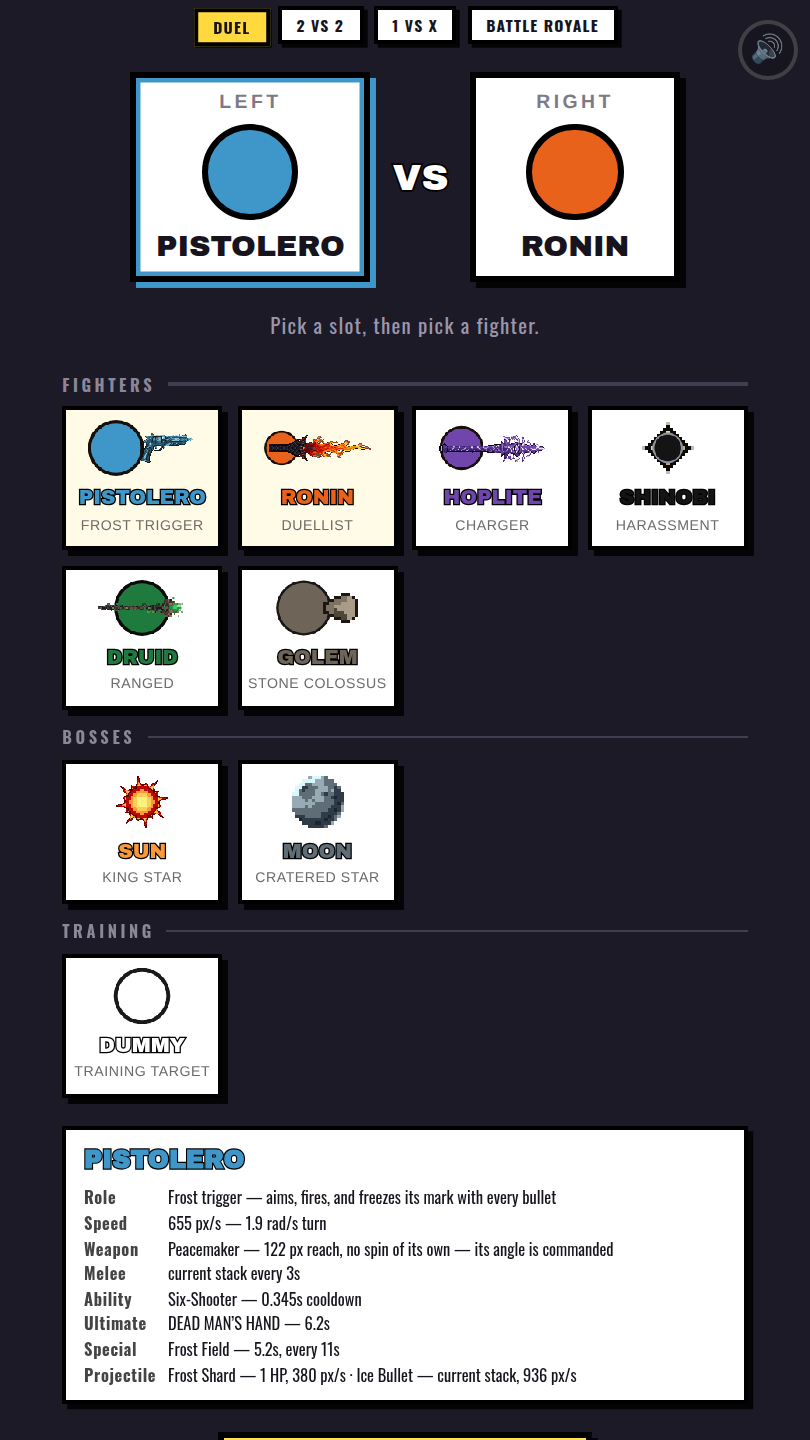
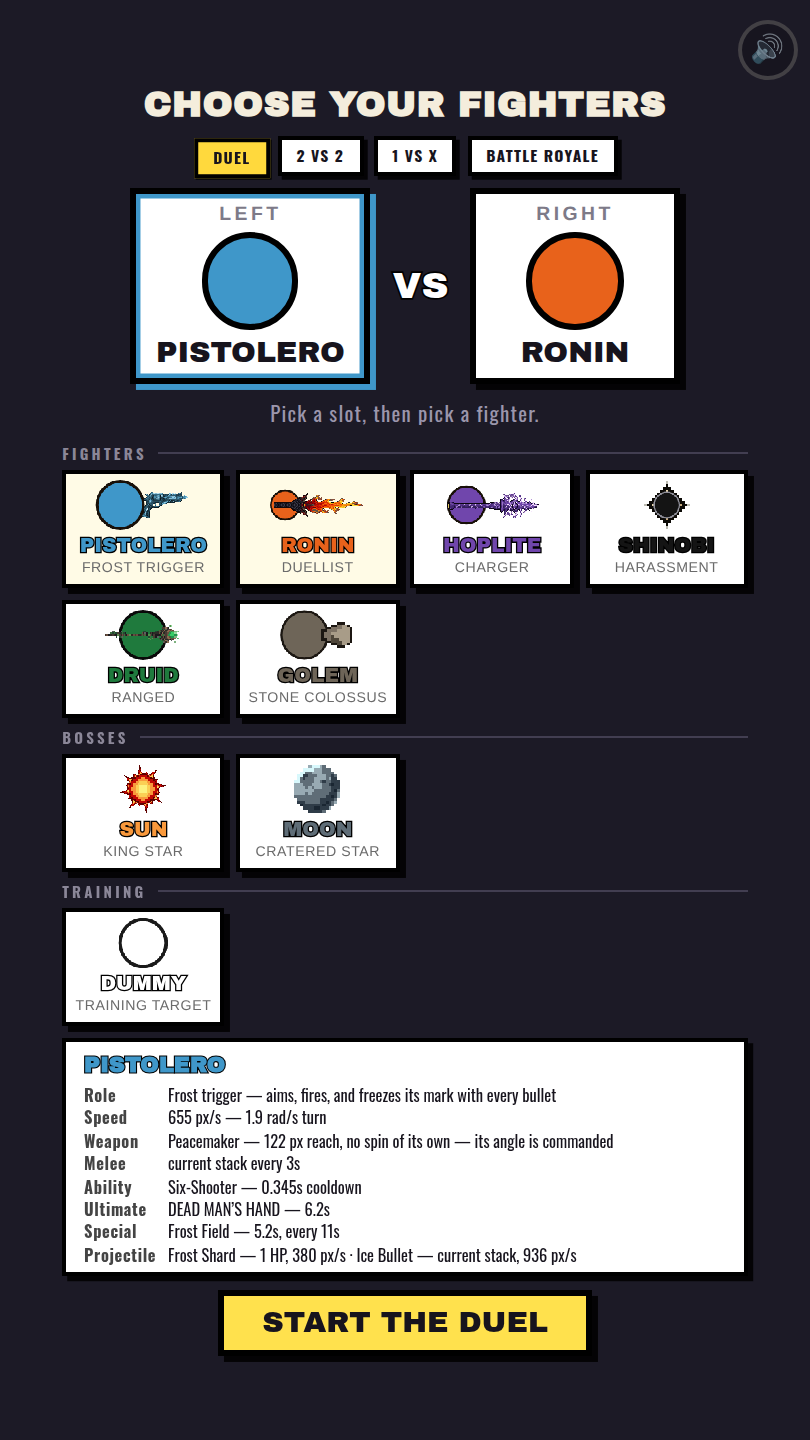
Écran de sélection : la pile tient enfin dans la scène, sur iPhone 16 Pro comme ailleurs
L'écran d'accueil débordait sa boîte **partout**, et depuis toujours. Personne
ne l'avait vu parce que le débordement est proportionnel : `#app` garde le ratio
720/1280 et toutes les tailles sont en `cqw`, donc la même pile déborde de la
même fraction sur un iPhone 16 Pro (402 × 874 px CSS → boîte 402 × 715, les
159 px restants de l'écran étant hors scène) que sur un 1280 × 800 (450 × 800).

Mesuré avant : 764 px de pile pour 715 de boîte en duel, 793 en bataille royale
à cinq. Et il n'en manquait pas qu'un bout : `justify-content: center` déborde
**des deux côtés**, donc le titre « CHOOSE YOUR FIGHTERS » passait au-dessus du
bord haut — invisible *et* hors d'atteinte du défilement — pendant que le bouton
de départ passait sous le bord bas.

Passe de compacité inconditionnelle — aucune requête de média, puisque corriger
sur un écran corrige sur tous :

* `gap` de 2 % à 0,9 % : un `gap` en pourcentage dans une colonne se résout sur
  la **hauteur**, pas sur la largeur comme les `padding`. 2 % valaient 14,3 px,
  soit 100 px de la pile en bataille royale — le premier levier, et le seul
  gratuit. Marge verticale de l'écran 4 % → 2,4 %.
* Ce qui se répète coûte : les quatre rangées de cartes du roster (marges et
  gouttières resserrées, vignette de 15 × 7,5 à 13,2 × 6,6cqw, ratio 2:1 du
  canvas gardé) et les huit lignes de la fiche détaillée (interligne 1,45 → 1,3,
  marge intérieure 1,8 → 1,1cqw, soit 20 px sans toucher au corps du texte).
[…]

diff --git a/styles/style.css b/styles/style.css
@@ -153,6 +153,24 @@ body {
 /* ---------------------------------------------------------------
    Écrans superposés
    --------------------------------------------------------------- */
+/**
+ * **L'écran n'a que la hauteur de la scène, et elle ne dépend pas de l'appareil.**
+ * `#app` garde le ratio 9:16 : sur un iPhone 16 Pro (402 × 874 px CSS), la
+ * largeur borne, donc la boîte fait 402 × 715 — les 159 px restants de l'écran
+ * sont hors scène. Toutes les tailles étant en `cqw`, **la pile se comporte
+ * pareil partout** : ce qui déborde ici déborde sur tous les écrans, dans la
+ * même proportion. D'où une passe de compacité **inconditionnelle**, sans
+ * requête de média : mesurée à 793 px de pile pour 715 px de boîte en bataille
+ * royale à cinq, elle tombe à 692 (`tools/layout-check.mjs`).
+ *
+ * `justify-content: center` déborde **des deux côtés** : le titre passait
+ * au-dessus du bord haut — invisible *et* hors d'atteinte du défilement —,
+ * pendant que le bouton de départ passait sous le bord bas.
+ *
+ * `gap` en pourcentage se résout ici sur la **hauteur** (axe du `row-gap`), pas
+ * sur la largeur comme les `padding` : 2 % valaient 14,3 px, soit 86 px pour la
+ * seule respiration entre blocs.
+ */
 .screen {
   position: absolute;
   inset: 0;
@@ -160,8 +178,8 @@ body {
   flex-direction: column;
   align-items: center;
   justify-content: center;
-  gap: 2%;
-  padding: 4% 4%;
+  gap: 0.9%;
+  padding: 2.4% 4%;
   background: var(--paper);
   text-align: center;
   /* les tailles sont en cqw pour suivre l'échelle du canvas */
@@ -175,7 +193,7 @@ body {
 
 .select-title {
   font-family: var(--font-heavy);
-  font-size: 5.4cqw;
+  font-size: 4.8cqw;
   letter-spacing: 0.02em;
   margin: 0;
   color: var(--on-paper);
@@ -273,8 +291,8 @@ body {
    champ sélectionnerait l'emplacement. */
 /* À trois emplacements et plus, les cartes du duel ne tiennent plus : on les
    resserre plutôt que de laisser la ligne déborder. */
-.slots:not([data-count="2"]) .slot { padding: 1.2cqw 1.6cqw; border-width: 0.6cqw; }
-.slots:not([data-count="2"]) .slot-orb { width: 6cqw; height: 6cqw; }
+.slots:not([data-count="2"]) .slot { padding: 0.9cqw 1.6cqw; border-width: 0.6cqw; gap: 0.6cqw; }
+.slots:not([data-count="2"]) .slot-orb { width: 5.4cqw; height: 5.4cqw; }
 .slots:not([data-count="2"]) .slot-name { font-size: 2.4cqw; }
 .slots:not([data-count="2"]) .slot-tag { font-size: 1.5cqw; }
 .slots:not([data-count="2"]) .slot-vs { font-size: 3.4cqw; }
@@ -288,12 +306,12 @@ body {
   color: #17141d; /* panneau blanc */
   border: 0.9cqw solid #000;
   border-radius: 0;
-  padding: 2cqw 2.6cqw;
+  padding: 1.4cqw 2.6cqw;
   min-width: 28cqw;
   display: flex;
   flex-direction: column;
   align-items: center;
-  gap: 1.2cqw;
+  gap: 0.9cqw;
   cursor: pointer;
   transition: transform .12s ease, box-shadow .12s ease;
   box-shadow: 0.8cqw 0.8cqw 0 rgba(0,0,0,.85);
@@ -349,7 +367,7 @@ body {
   display: flex;
   flex-direction: column;
   align-items: stretch;
-  gap: 1.4cqw;
+  gap: 0.8cqw;
   width: 92cqw;
 }
 
@@ -357,14 +375,14 @@ body {
   display: grid;
   grid-template-columns: repeat(4, 1fr);
   justify-items: stretch;
-  gap: 2cqw;
+  gap: 1.6cqw;
 }
 
 /* Un titre de section, discret : il range, il ne réclame pas l'attention. Le
    trait à droite le rattache à sa grille au lieu de flotter au-dessus. */
 .roster-tier {
-  margin: 0.6cqw 0 0;
-  font-size: 2.2cqw;
+  margin: 0.2cqw 0 0;
+  font-size: 2cqw;
   font-weight: 700;
   letter-spacing: .22em;
   color: #8b8798;
@@ -384,19 +402,21 @@ body {
   appearance: none;
   cursor: pointer;
   color: #17141d; /* panneau blanc */
-  padding: 1.4cqw 0.8cqw 1.8cqw;
+  padding: 0.9cqw 0.8cqw 1.1cqw;
   border: 0.7cqw solid #000;
   background: #fff;
   box-shadow: 0.8cqw 0.8cqw 0 rgba(0,0,0,.85);
   display: flex;
   flex-direction: column;
   align-items: center;
-  gap: 1.4cqw;
+  gap: 0.7cqw;
   transition: transform .12s ease;
 }
 .card:hover, .card:focus-visible { transform: translate(-0.35cqw, -0.35cqw); outline: none; }
 .card[aria-pressed="true"] { background: #fffbe6; }
-.card canvas { width: 15cqw; height: 7.5cqw; image-rendering: pixelated; }
+/* La vignette garde le 2:1 de son canvas (144 × 72) : la rétrécir hors ratio
+   n'aurait pas gagné de hauteur, elle aurait déformé le dessin. */
+.card canvas { width: 13.2cqw; height: 6.6cqw; image-rendering: pixelated; }
 .card-name {
   font-family: var(--font-heavy);
   font-size: 2.7cqw;
@@ -407,22 +427,25 @@ body {
 .card-role { font-size: 1.9cqw; color: #6b6b6b; letter-spacing: .04em; }
 
 /* --- fiche détaillée --- */
+/* Huit lignes de fiche : l'interligne y pèse huit fois, la marge intérieure
+   deux. 1,45 → 1,3 et 1,8 → 1,1cqw rendent 20 px de hauteur sans toucher au
+   corps du texte, qui est ce qui se lit. */
 .element-sheet {
   width: 92cqw;
   border: 0.7cqw solid #000;
   background: #fff;
-  padding: 1.8cqw 2.4cqw;
+  padding: 1.1cqw 2.4cqw;
   text-align: left;
   font-size: 2.2cqw;
-  line-height: 1.45;
+  line-height: 1.3;
   /* panneau blanc : le texte y reste sombre, quel que soit le fond de page */
   color: #17141d;
   box-shadow: 0.7cqw 0.7cqw 0 rgba(0,0,0,.85);
 }
 .element-sheet h3 {
-  margin: 0 0 1cqw;
+  margin: 0 0 0.6cqw;
   font-family: var(--font-heavy);
-  font-size: 3.4cqw;
+  font-size: 3cqw;
   color: var(--accent);
   -webkit-text-stroke: 0.3cqw #000;
   paint-order: stroke fill;
@@ -437,7 +460,7 @@ body {
   color: #17141d; /* boutons clairs */
   font-family: var(--font-heavy);
   font-size: 4cqw;
-  padding: 2cqw 5cqw;
+  padding: 1.5cqw 5cqw;
   border: 0.9cqw solid #000;
   background: #ffe14d;
   cursor: pointer;

diff --git a/docs/PIEGES.md b/docs/PIEGES.md
@@ -23,16 +23,16 @@ relevé, puis les pièges eux-mêmes.
 | &nbsp;&nbsp;· Déterminisme et ordre d'exécution | 469 |
 | &nbsp;&nbsp;· Éditer les données | 508 |
 | &nbsp;&nbsp;· Interface et rendu | 637 |
-| &nbsp;&nbsp;· Le son | 802 |
-| &nbsp;&nbsp;· Refactoriser | 1315 |
-| **Le détail des sections condensées de `CLAUDE.md`** | 1356 |
-| &nbsp;&nbsp;· L'écart du roster, et ce que la matrice cache | 1358 |
-| &nbsp;&nbsp;· Formats — ce qui change à l'écran au-delà de deux | 1401 |
-| &nbsp;&nbsp;· Invariant 12 — corollaire pour les modules de pouvoirs | 1444 |
-| &nbsp;&nbsp;· Invariant 13 — comment le moteur a cessé de compter jusqu'à deux | 1463 |
-| &nbsp;&nbsp;· Invariant 3 — la preuve que l'arrivée d'un combattant n'a rien déplacé | 1507 |
-| &nbsp;&nbsp;· Invariant 9 — les deux régressions qui l'ont écrit | 1524 |
-| &nbsp;&nbsp;· Formats — la table, et pourquoi elle a été écrite après coup | 1540 |
+| &nbsp;&nbsp;· Le son | 840 |
+| &nbsp;&nbsp;· Refactoriser | 1353 |
+| **Le détail des sections condensées de `CLAUDE.md`** | 1394 |
+| &nbsp;&nbsp;· L'écart du roster, et ce que la matrice cache | 1396 |
+| &nbsp;&nbsp;· Formats — ce qui change à l'écran au-delà de deux | 1439 |
+| &nbsp;&nbsp;· Invariant 12 — corollaire pour les modules de pouvoirs | 1482 |
+| &nbsp;&nbsp;· Invariant 13 — comment le moteur a cessé de compter jusqu'à deux | 1501 |
+| &nbsp;&nbsp;· Invariant 3 — la preuve que l'arrivée d'un combattant n'a rien déplacé | 1545 |
+| &nbsp;&nbsp;· Invariant 9 — les deux régressions qui l'ont écrit | 1562 |
+| &nbsp;&nbsp;· Formats — la table, et pourquoi elle a été écrite après coup | 1578 |
 
 ---
 
@@ -798,6 +798,44 @@ dans `docs/FICHES.md`. Ce qui suit vaut pour tout le dépôt.
   un fond uni sombre** avant de le déclarer propre. Sur le damier de
   l'éditeur d'images, une trame résiduelle est invisible — elle se confond avec
   celui de l'aperçu.
+- **Un écran DOM sur une scène 9:16 n'a pas la hauteur de l'appareil, et son
+  débordement ne dépend d'aucun appareil.** L'écran de sélection débordait sa
+  boîte **partout**, depuis toujours, et personne ne l'avait vu parce que le
+  débordement est *proportionnel* : `#app` garde le ratio 720/1280, donc sur un
+  iPhone 16 Pro (402 × 874 px CSS) la largeur borne et la boîte fait **402 × 715**
+  — les 159 px restants de l'écran sont hors scène —, et sur un 1280 × 800 elle
+  fait 450 × 800. Toutes les tailles étant en `cqw`, **la même pile déborde de
+  la même fraction sur les deux**. Mesuré : 764 px de pile pour 715 px de boîte
+  en duel, 793 en bataille royale à cinq.
+
+  Trois choses à en retenir, chacune payée une fois :
+  - **`justify-content: center` déborde des deux côtés.** Le titre « CHOOSE YOUR
+    FIGHTERS » passait **au-dessus** du bord haut : invisible *et* hors
+    d'atteinte du défilement, puisqu'on ne défile pas vers un dépassement
+    négatif. Le bouton de départ, lui, passait sous le bord bas. Un seul des
+    deux se voyait sur une capture, et c'est le second — d'où un débordement
+    lu comme « il manque le bouton » pendant que la moitié du problème était en
+    haut.
+  - **Un `gap` en pourcentage dans une colonne se résout sur la *hauteur*, pas
+    sur la largeur comme les `padding`.** `gap: 2%` valait donc 14,3 px et non
+    8 : à sept blocs, **100 px de la pile** n'étaient que de la respiration,
+    soit plus que tout le débordement. C'est le premier levier, et le seul
+    gratuit.
+  - **Ce qui coûte, c'est ce qui se répète.** Le roster fait quatre rangées de
+    cartes : chaque `cqw` retiré d'une marge de carte est payé quatre fois
+    (10 px de carte = 40 px de pile). Idem pour les huit lignes de la fiche
+    détaillée, où l'interligne 1,45 → 1,3 rend 20 px **sans toucher au corps du
+    texte**, qui est ce qui se lit. Les tailles de police n'ont donc quasiment
+    pas bougé : la compacité s'est prise dans les vides.
+
+  Résultat : 793 → 692 px dans le pire format, 764 → 652 en duel, marge de
+  23 px au plus serré. Le garde-fou est une mesure, pas un œil — hauteur réelle
+  de la pile (haut du premier bloc → bas du dernier, `padding` compris)
+  **balayée sur les quatre formats × trois tailles × les neuf fiches**, la
+  largeur de la fiche affichée variant avec le combattant survolé. Et comme le
+  débordement est proportionnel, **la corriger sur un écran la corrige sur
+  tous** : aucune requête de média n'a été nécessaire, et en ajouter une aurait
+  laissé le bug entier sur les appareils non couverts.
 
 ### Le son
 

diff --git a/CLAUDE.md b/CLAUDE.md
@@ -384,6 +384,9 @@ node tools/fiche-check.mjs               # câblage, clé de sprite absente de
                                          # PIXEL_MAPS, fiche ↔ module
 node tools/lang-check.mjs                # clés des deux tables + champs `Ref`
 node tools/sound-check.mjs               # action muette, recette refusée
+node tools/layout-check.mjs              # les écrans DOM tiennent-ils dans la
+                                         # scène ? (pile réelle × formats ×
+                                         # tailles × fiches, iPhone 16 Pro)
 node tools/export-check.mjs              # la vidéo exportée sonne-t-elle ?
                                          # (redécodage PCM : octets + RMS)
 node tools/matrix.mjs                    # tous les affrontements × 3 seeds
@@ -566,6 +569,12 @@ est dans `docs/PIEGES.md`, sous le même intitulé.
 - **Un recul se règle en direction, pas en force** : l'ampleur est un levier plat.
 - **Un combattant à plusieurs corps ne se nomme qu'une fois** : dédoublonner par
   `el.id`.
+- **Un écran DOM déborde la scène 9:16 dans la même proportion partout** : le
+  mesurer (pile réelle × formats × tailles × fiches), pas le régler par média.
+- **`justify-content: center` déborde des deux côtés** — le haut est perdu, et
+  le défilement n'y mène pas.
+- **Un `gap` en pourcentage vertical se résout sur la hauteur**, pas sur la
+  largeur comme les `padding`.
 - Un pouvoir dessiné dans `drawOver` peut **recouvrir le chiffre de PV**, qui est
   repassé après la boucle (`globalAlpha` remis à 1 avant).
 

diff --git a/README.md b/README.md
@@ -284,6 +284,9 @@ tools/                     outillage de vérification (non chargé par la page)
 ├── export-check.mjs       banc de l'export : le fichier produit est relu **et
 │                          redécodé en PCM**, seul moyen de distinguer une piste
 │                          audio vivante d'une piste silencieuse
+├── layout-check.mjs       les écrans DOM tiennent-ils dans la scène ? hauteur
+│                          réelle de la pile, balayée sur les quatre formats,
+│                          leurs tailles et les neuf fiches
 ├── shot.mjs               captures d'écran, avec déclenchement de pouvoir
 ├── frames.py              extraction d'images d'une vidéo de référence
 ├── montage.py             planche-contact des images extraites
